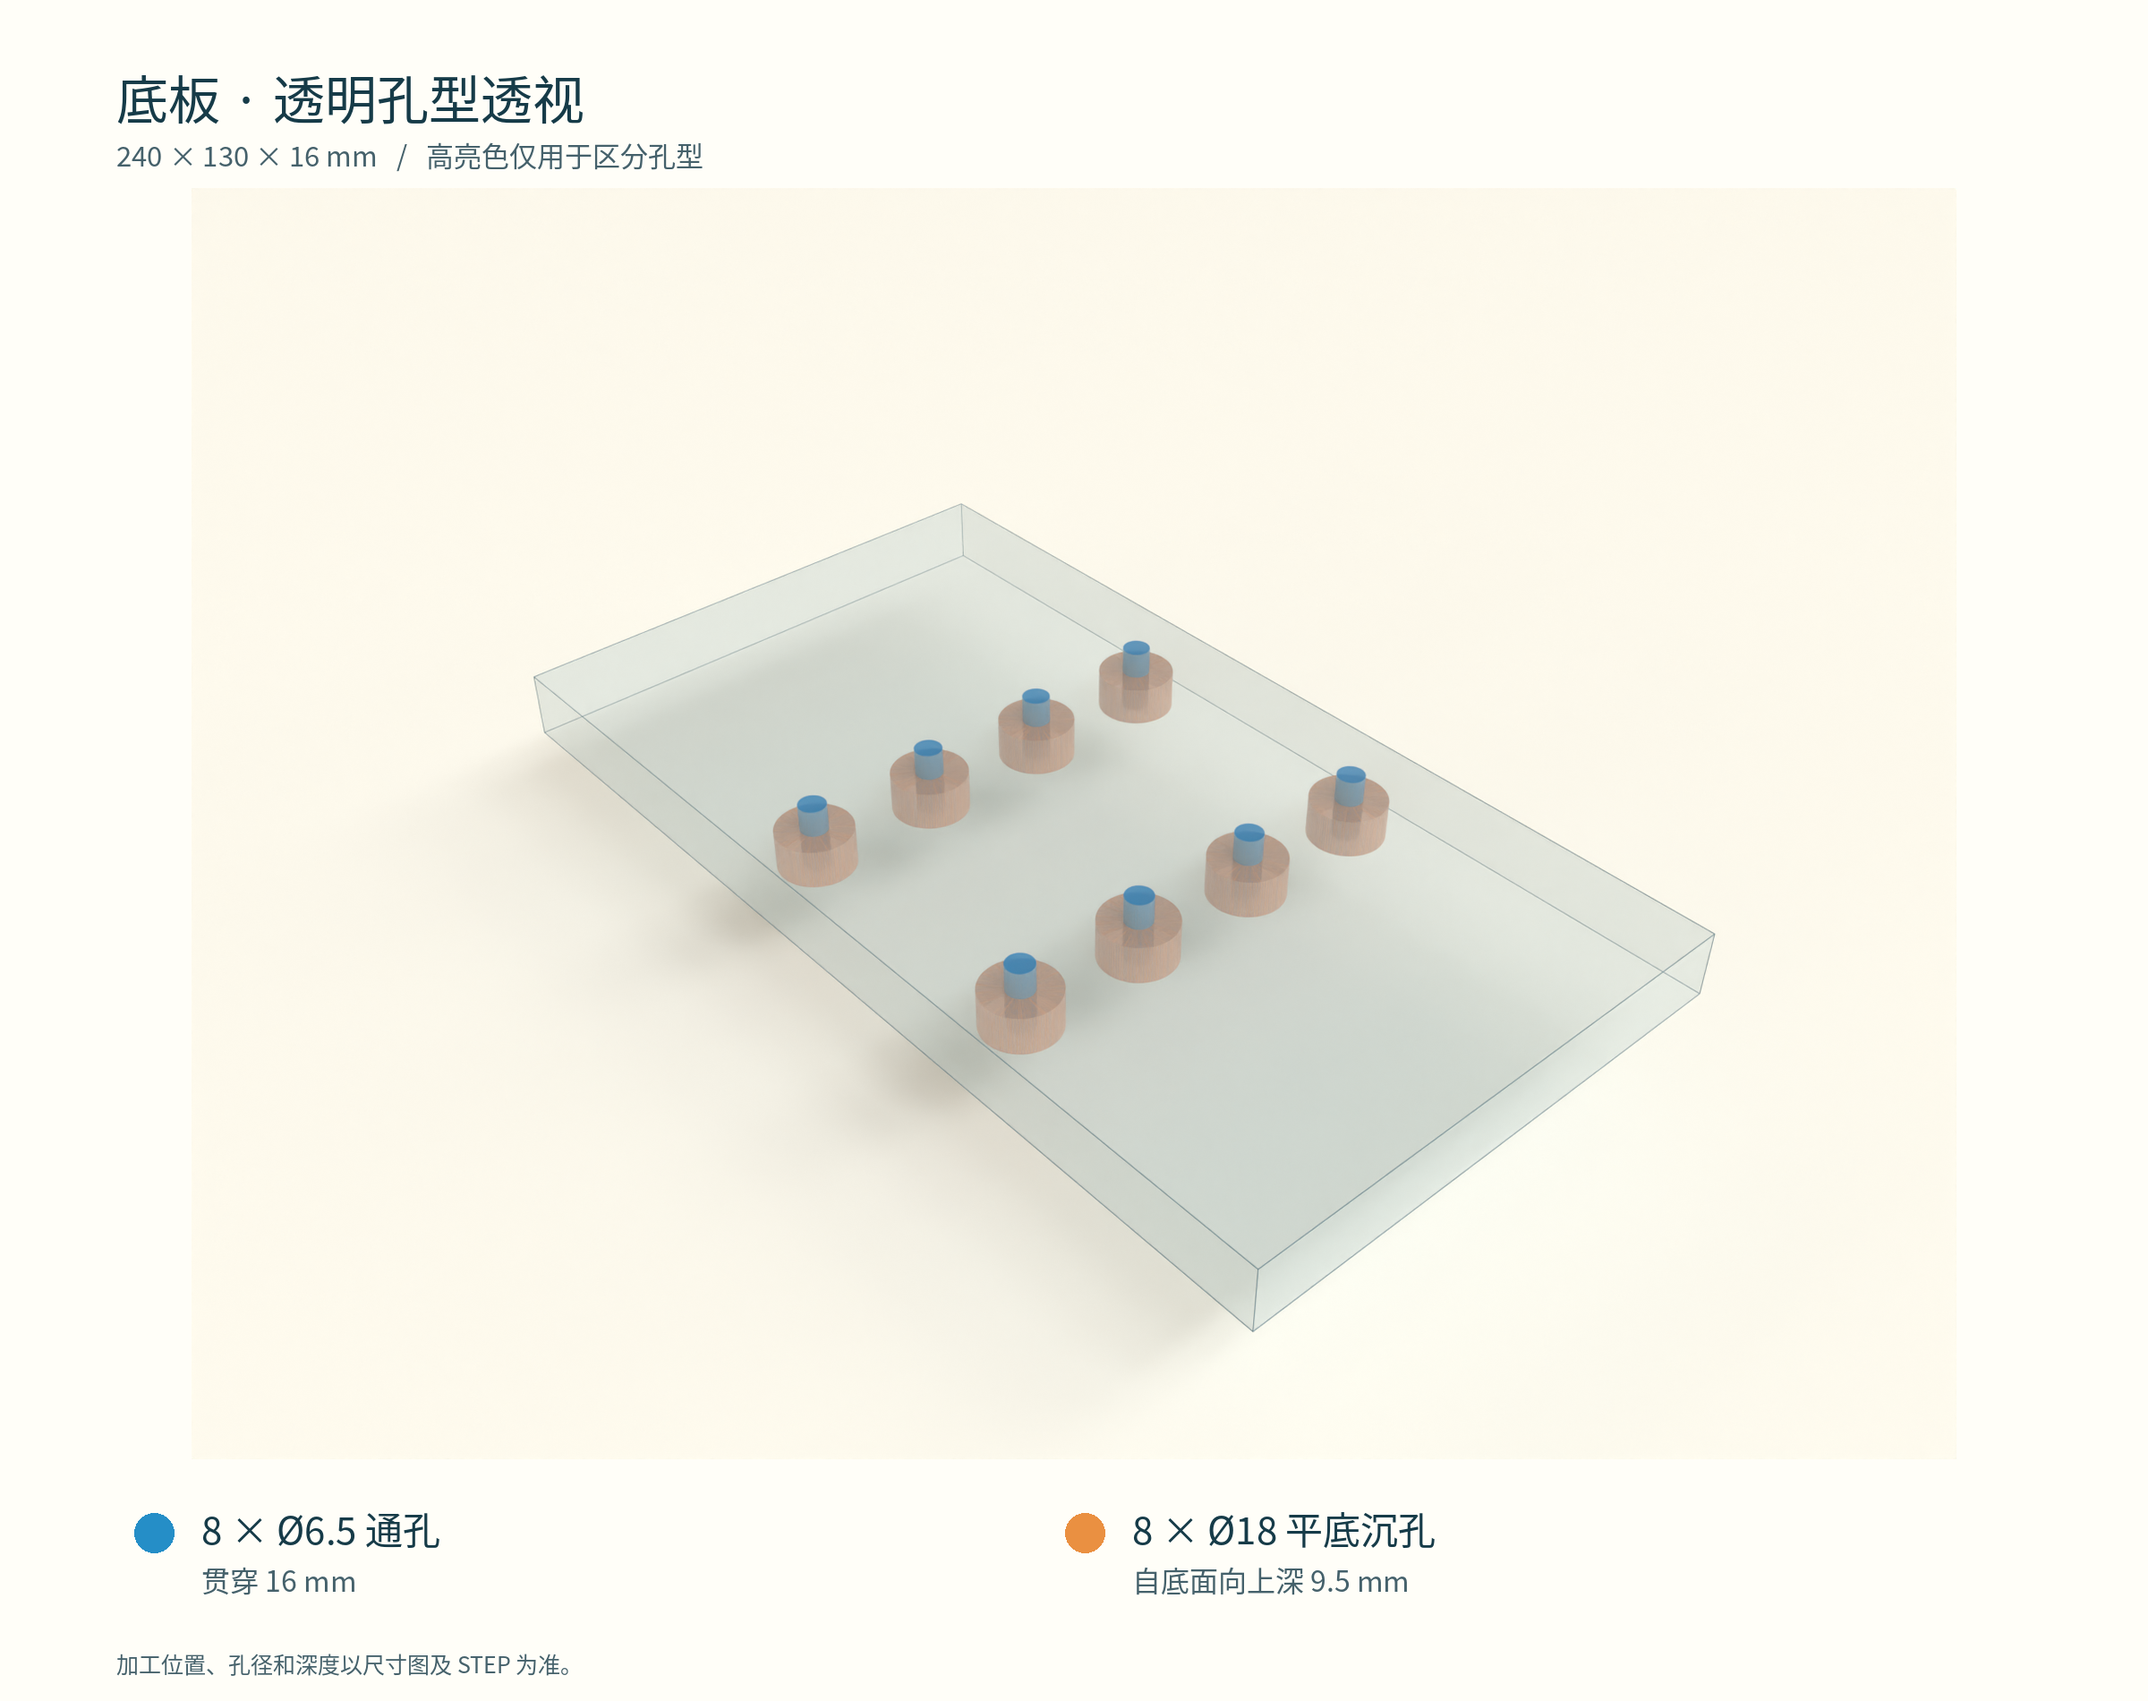
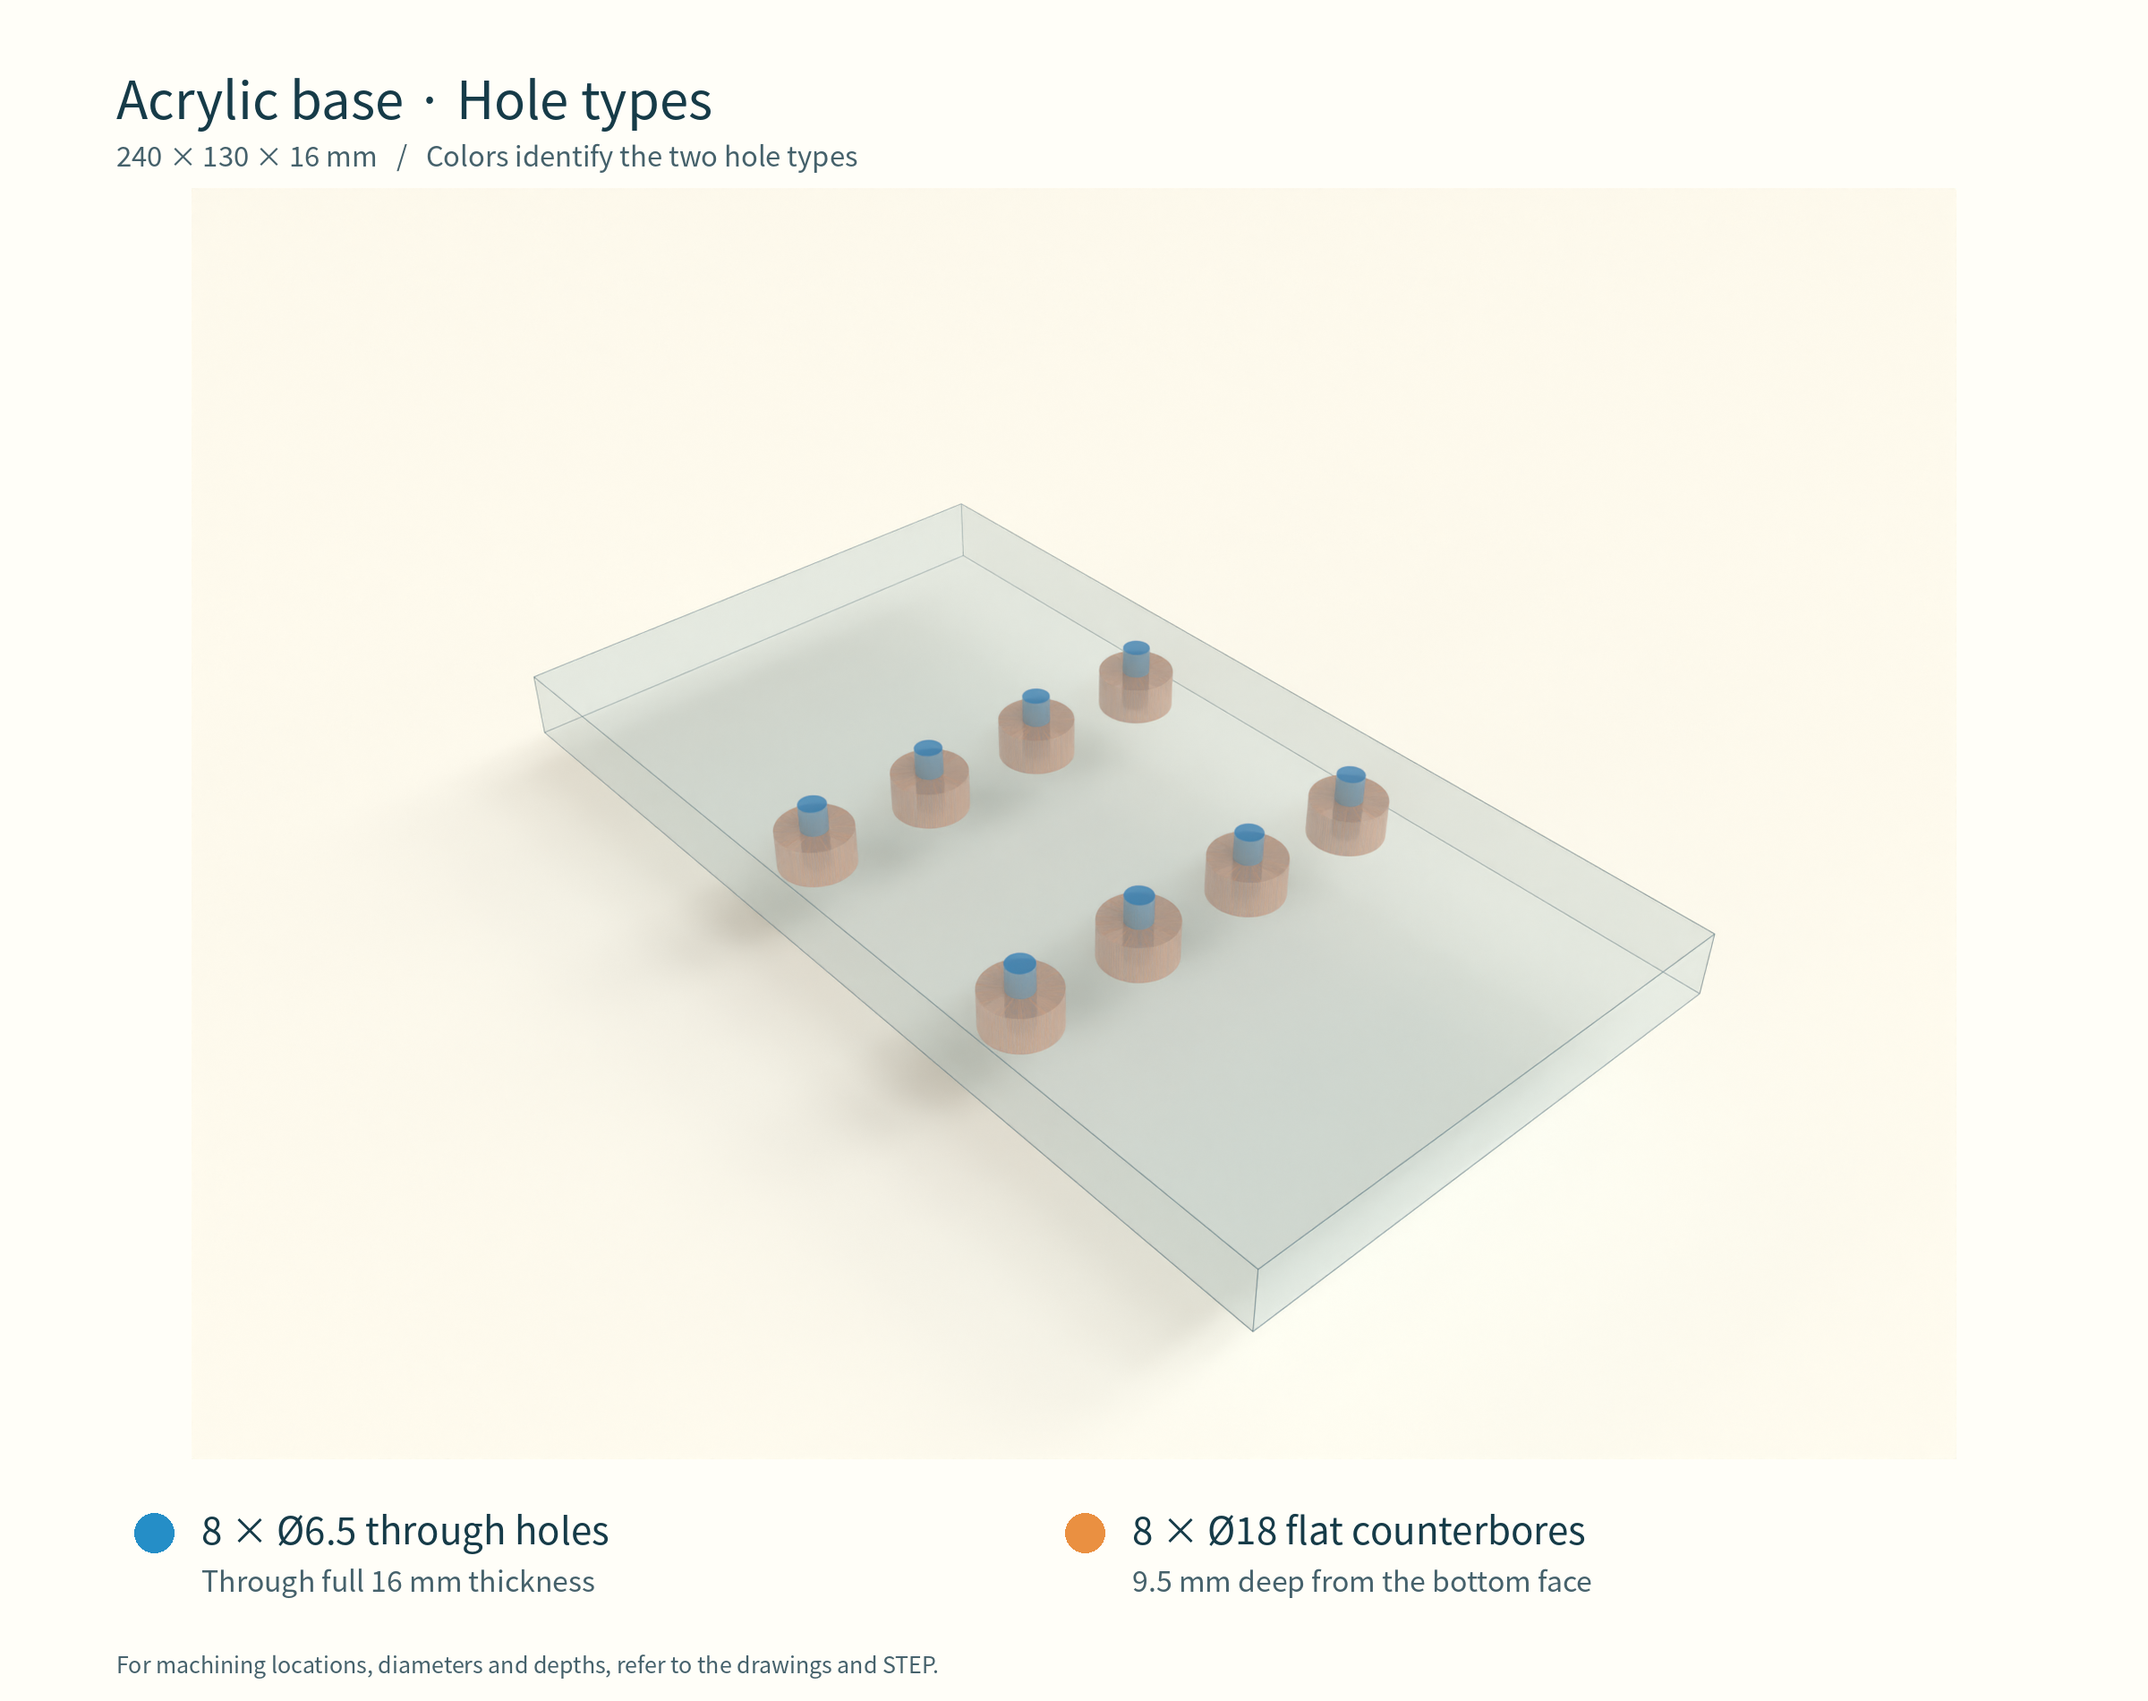
Use English image labels and show all three views in README

diff --git a/cad/acrylic_paper.py b/cad/acrylic_paper.py
@@ -14,14 +14,15 @@ def make(out):
  perspective=p/'acrylic_perspective.png';total=9 if perspective.exists() else 8
  m=json.loads((p/'manifest.json').read_text());holes=[(i+1,x+120,y+130) for i,(x,y) in enumerate(m['board']['holes'])]
  def sheet(title,num,scale='1:1'):
+  english=num==9
   fig=plt.figure(figsize=(420/25.4,297/25.4));a=fig.add_axes([0,0,1,1]);a.set(xlim=(0,420),ylim=(0,297));a.set_aspect('equal');a.axis('off')
   a.add_patch(Rectangle((10,10),400,277,fill=False,lw=.8));a.text(18,275,title,fontsize=16)
-  a.text(18,265,'单位 mm · 第三角法（独立视图） · 尺寸数值优先 · 按100%打印保持标注比例',fontsize=9)
+  a.text(18,265,'Units: mm · Independent third-angle view · Dimensions govern · Print at 100%' if english else '单位 mm · 第三角法（独立视图） · 尺寸数值优先 · 按100%打印保持标注比例',fontsize=9)
   a.add_patch(Rectangle((210,10),200,29,fill=False,lw=.6));a.plot([210,410],[22,22],color='k',lw=.5);a.plot([325,325],[10,39],color='k',lw=.5)
-  a.text(214,31,'零件：底板 / 浇铸PMMA / 成品厚16');a.text(329,31,'图号 GP-FIX-PMMA16-A0',fontsize=8)
-  a.text(214,15,f'比例 {scale}    图幅 A3    {num}/{total}    2026-11-07',fontsize=8)
-  a.text(329,15,'几何核对；非承载认证',fontsize=8)
-  a.text(18,15,'基准：左下角为X0/Y0，底面B为Z0；CAD加工坐标同图纸。',fontsize=8)
+  a.text(214,31,'Part: Acrylic base / Cast PMMA / t=16 mm' if english else '零件：底板 / 浇铸PMMA / 成品厚16');a.text(329,31,'Drawing GP-FIX-PMMA16-A0' if english else '图号 GP-FIX-PMMA16-A0',fontsize=8)
+  a.text(214,15,(f'Scale {scale}    A3    {num}/{total}    2026-11-08' if english else f'比例 {scale}    图幅 A3    {num}/{total}    2026-11-07'),fontsize=8)
+  a.text(329,15,'Geometry review; no load certification' if english else '几何核对；非承载认证',fontsize=8)
+  a.text(18,15,'Datum: lower-left X0/Y0; underside B=Z0; same origin as machining CAD.' if english else '基准：左下角为X0/Y0，底面B为Z0；CAD加工坐标同图纸。',fontsize=8)
   return fig,a
  def line(a,p1,p2,hidden=False):a.plot([p1[0],p2[0]],[p1[1],p2[1]],color='#3b4146' if hidden else 'k',lw=.55 if hidden else .8,ls=(0,(3,2)) if hidden else '-')
  def dim(a,p1,p2,text,shift=(0,0)):
@@ -87,11 +88,11 @@ def make(out):
  textlines(a,['名义叠层：螺丝端高于底板底面1.0mm；螺母底面高于底板底面2.8mm；螺丝伸过螺母1.8mm。','尺寸检验：先量成品板厚、法兰厚、垫片厚及螺丝长度，装配后端部不得凸出底面，并保持完整啮合。','以上为名义几何；加工和打印公差不能只看标称值。钢螺丝静力计算不等于PMMA板体或法兰承载合格。'],y=90,size=8.5)
  pages.append((f,'08_连接剖面'))
  if perspective.exists():
-  f,a=sheet('透明透视示意 / 通孔与平底沉孔分色',9,'不按比例')
+  f,a=sheet('Transparent perspective / Through holes and counterbores',9,'NTS')
   image=plt.imread(perspective);height=202;width=height*image.shape[1]/image.shape[0]
   if width>376:width=376;height=width*image.shape[0]/image.shape[1]
   left=(420-width)/2;bottom=55+(202-height)/2;a.imshow(image,extent=(left,left+width,bottom,bottom+height),aspect='equal',zorder=2)
-  a.text(18,45,'蓝色：8×Ø6.5通孔，贯穿16；橙色：8×Ø18平底沉孔，自底面深9.5。颜色仅作孔型说明。',fontsize=8)
+  a.text(18,45,'Blue: 8 × Ø6.5 through holes, full 16 mm; orange: 8 × Ø18 counterbores, 9.5 mm from underside. Illustrative colors.',fontsize=8)
   pages.append((f,'09_透明孔型透视'))
  with PdfPages(folder/'底板_六面与剖面_A3.pdf') as pdf:
   for f,name in pages:

diff --git a/scripts/compose_renders.py b/scripts/compose_renders.py
@@ -8,22 +8,22 @@ def F(n):return ImageFont.truetype(font,n)
 def line(draw,xy,text,size=32,color='#45616b'):draw.text(xy,text,font=F(size),fill=color)
 for mode in ('overview','mounted','acrylic'):
  if mode=='acrylic':
-  im=Image.new('RGB',(2400,1900),'#fffef8');d=ImageDraw.Draw(im);line(d,(130,65),'底板 · 透明孔型透视',58,'#163b48');line(d,(130,150),'240 × 130 × 16 mm   /   高亮色仅用于区分孔型',31)
+  im=Image.new('RGB',(2400,1900),'#fffef8');d=ImageDraw.Draw(im);line(d,(130,65),'Acrylic base · Hole types',58,'#163b48');line(d,(130,150),'240 × 130 × 16 mm   /   Colors identify the two hole types',31)
   photo=Image.open(src/(mode+'.png')).convert('RGB');factor=min(2200/photo.width,1420/photo.height);photo=photo.resize((round(photo.width*factor),round(photo.height*factor)),Image.Resampling.LANCZOS);im.paste(photo,((2400-photo.width)//2,210))
-  d=ImageDraw.Draw(im);d.ellipse((150,1690,194,1734),fill='#258ec7');line(d,(225,1676),'8 × Ø6.5 通孔',42,'#163b48');line(d,(225,1740),'贯穿 16 mm',32)
-  d.ellipse((1190,1690,1234,1734),fill='#ea9041');line(d,(1265,1676),'8 × Ø18 平底沉孔',42,'#163b48');line(d,(1265,1740),'自底面向上深 9.5 mm',32)
-  line(d,(130,1840),'加工位置、孔径和深度以尺寸图及 STEP 为准。',25)
+  d=ImageDraw.Draw(im);d.ellipse((150,1690,194,1734),fill='#258ec7');line(d,(225,1676),'8 × Ø6.5 through holes',42,'#163b48');line(d,(225,1740),'Through full 16 mm thickness',32)
+  d.ellipse((1190,1690,1234,1734),fill='#ea9041');line(d,(1265,1676),'8 × Ø18 flat counterbores',42,'#163b48');line(d,(1265,1740),'9.5 mm deep from the bottom face',32)
+  line(d,(130,1840),'For machining locations, diameters and depths, refer to the drawings and STEP.',25)
  else:
   im=Image.new('RGB',(2200,2500),'#fffef8');d=ImageDraw.Draw(im)
-  line(d,(130,60),'装配总览' if mode=='overview' else '手柄安装效果',62,'#163b48')
-  line(d,(130,150),'打印部件分色 · 购买部件统一灰色' if mode=='overview' else '16 mm 亚克力底板 · 保留原装配高度',32)
+  line(d,(130,60),'Assembly overview' if mode=='overview' else 'Controller mounted',62,'#163b48')
+  line(d,(130,150),'Printed parts in distinct colors · Purchased parts in gray' if mode=='overview' else '16 mm acrylic base · Original assembly height',32)
   photo=Image.open(src/(mode+'.png')).convert('RGB').resize((2020,2020),Image.Resampling.LANCZOS);im.paste(photo,(90,225));d=ImageDraw.Draw(im)
   if mode=='overview':
-   entries=[('立柱底座','#329d94'),('套筒与耳板','#588ac5'),('托架','#dba165'),('上夹爪滑块','#d67e79'),('固定齿盘','#9a80b5'),('转动齿盘','#d9bd5f'),('购买部件','#b7bdc4')]
+   entries=[('Column base','#329d94'),('Sleeve and fork ears','#588ac5'),('Cradle','#dba165'),('Upper jaw slider','#d67e79'),('Fixed Hirth disc','#9a80b5'),('Moving Hirth disc','#d9bd5f'),('Purchased parts','#b7bdc4')]
    for i,(title,col) in enumerate(entries):
     x=130+(i%4)*515;y=2280+(i//4)*88;d.rounded_rectangle((x,y+6,x+36,y+42),radius=5,fill=col);line(d,(x+55,y),title,31,'#304d58')
   else:
-   line(d,(130,2300),'Blender / Cycles · 原手柄材质与贴图',32,'#304d58')
+   line(d,(130,2300),'Blender / Cycles · Original controller materials and textures',32,'#304d58')
    line(d,(130,2372),'Controller: BatonyRobson · CC BY 4.0   |   Boiler Room: Poly Haven · CC0',23)
  im.save(dst/(mode+'.png'))
 print('Composed review round',r)

diff --git a/README.md b/README.md
@@ -2,15 +2,19 @@
 
 Editable CAD and manufacturing files for an Xbox One S 1708 controller fixture, with height adjustment, a Hirth tilt coupling and a 16 mm acrylic base.
 
+![Assembly overview: printed parts in distinct colors, purchased parts in gray](docs/media/overview.png)
+
 ![Fixture with controller](docs/media/mounted.png)
+
+![Transparent acrylic base with through holes and counterbores highlighted](docs/media/acrylic.png)
 
 ## Download
 
 The [latest release](https://github.com/5o1/gamepad_fixture/releases/latest) includes the complete STEP assembly, six separate PETG printing files, acrylic machining CAD/DXF, dimensioned paper drawings and an itemized purchasing list. Manufacturing instructions and drawings are currently in Chinese.
 
-- [Complete delivery](https://github.com/5o1/gamepad_fixture/releases/download/v3.2.0/gamepad_fixture_v3.2.0.zip)
-- [Printing centre STL bundle](https://github.com/5o1/gamepad_fixture/releases/download/v3.2.0/printing_STL_v3.2.0.zip)
-- [Acrylic manufacturer bundle](https://github.com/5o1/gamepad_fixture/releases/download/v3.2.0/acrylic_manufacturing_v3.2.0.zip)
+- [Complete delivery](https://github.com/5o1/gamepad_fixture/releases/download/v3.2.1/gamepad_fixture_v3.2.1.zip)
+- [Printing centre STL bundle](https://github.com/5o1/gamepad_fixture/releases/download/v3.2.1/printing_STL_v3.2.1.zip)
+- [Acrylic manufacturer bundle](https://github.com/5o1/gamepad_fixture/releases/download/v3.2.1/acrylic_manufacturing_v3.2.1.zip)
 
 The base is 240 × 130 × 16 mm, with eight Ø6.5 through holes and bottom Ø18 counterbores 9.5 mm deep. The upper assembly stays at its original height. Printed parts and purchased hardware are filed separately; consult the purchasing list before ordering.
 

diff --git a/docs/rendering.md b/docs/rendering.md
@@ -14,3 +14,5 @@ Three image-review rounds are recorded for the published images. Render inputs a
 For the repository compositor, use `python scripts/compose_renders.py 3 /path/to/render-inputs` after rendering.
 
 The original approved scene and controller references remain CC BY4.0; the packed HDR is CC0. See [notices](../THIRD_PARTY_NOTICES.md).
+
+The v3.2.1 image update redraws titles, the part legend and hole descriptions in English. The reviewed Cycles render pixels, CAD geometry, controller materials and lighting are unchanged.
